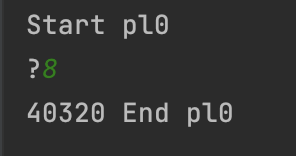
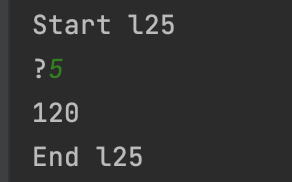
pl0->l25细节修改

diff --git a/l25Compiler.c b/l25Compiler.c
@@ -1584,8 +1584,8 @@ void interpret()
 	int catchStack[stacksize];
 	int cTop = 0;
 
-	printf("Start pl0\n");
-	fprintf(fresult, "Start pl0\n");
+	printf("Start l25\n");
+	fprintf(fresult, "Start l25\n");
 	s[0] = 0; /* s[0]不用 */
 	s[1] = 0; /* 主程序的三个联系单元均置为0 */
 	s[2] = 0;
@@ -1760,6 +1760,6 @@ void interpret()
 			fprintf(fresult, "\n");
 		} /*输出所有栈*/
 	} while (p != 0);
-	printf("End pl0\n");
-	fprintf(fresult, "End pl0\n");
+	printf("\nEnd l25\n");
+	fprintf(fresult, "\nEnd l25\n");
 }
